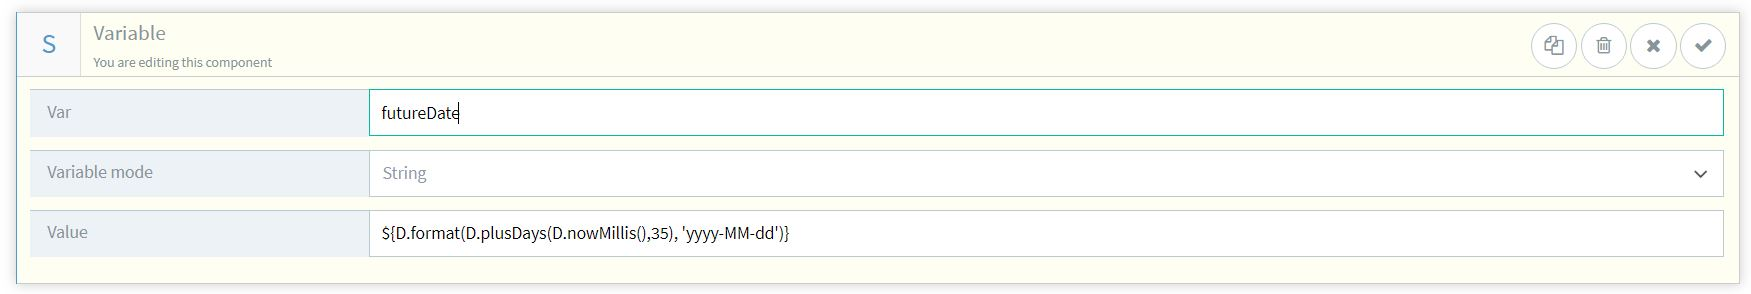
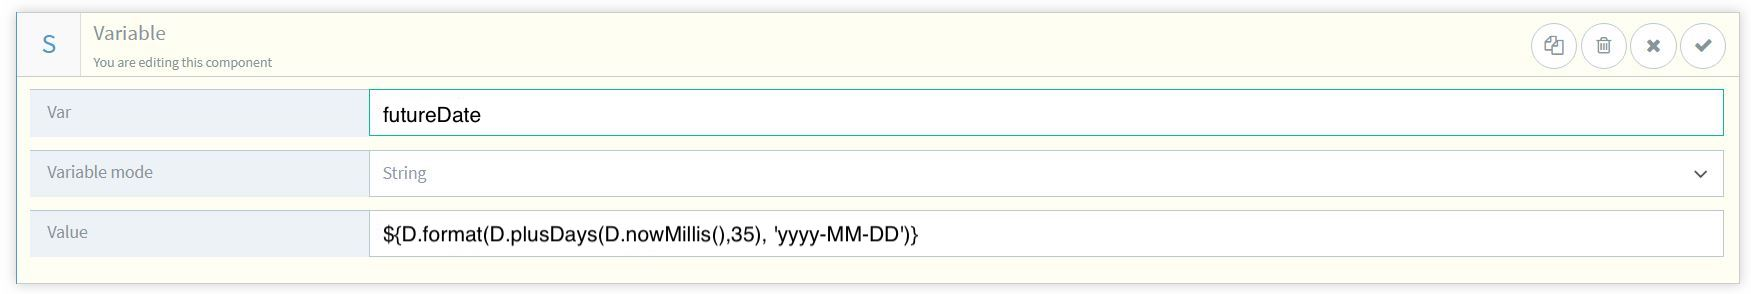
TCD-2081 API on-prem changes

Changed region(s): [[0.2159, 0.7653, 0.5243, 0.8571], [0.2159, 0.3673, 0.2776, 0.4286]]

diff --git a/docs/api-testing/on-prem/how-to/set-dynamic-dates.md b/docs/api-testing/on-prem/how-to/set-dynamic-dates.md
@@ -10,48 +10,43 @@ keywords:
 
 import useBaseUrl from '@docusaurus/useBaseUrl';
 
-Have you ever needed to pass a future date as part of the request inside of a test? Perhaps as a check-in or check-out date? You could enter it as static value, but that means you would have to periodically update the date as time went on. 
+Have you ever needed to pass a future date as part of the request inside of a test? Perhaps as a check-in or check-out date? You could enter it as static value, but that means you would have to periodically update the date as time went on.
 
 Creating a dynamic date in API Fortress is a simple solution for this sort of situation.
 
 Here's the procedure:
 
-1. First, open the Composer and add a **Set (variable)** 
-   
+1. First, open the Composer and add a **Set (variable)**:<br/>
    <img src={useBaseUrl('img/api-fortress/2018/04/setVar.jpg')} alt="setVar.jpg"/>
+2. In the Variable component editor, enter the following:
+    * **Var** field: enter your variable name.
+    * **Variable mode** field: leave it as `_String`.
+    * **Value** field: enter the following string: `${D.format(D.plusDays(D.nowMillis(),35), 'yyyy-MM-DD')}`.
+    <img src={useBaseUrl('img/api-fortress/2018/04/valueField.jpg')} alt="valueField.jpg"/>
 
-2. Then, enter the variable name and leave the mode as _String 
-   
-   <img src={useBaseUrl('img/api-fortress/2018/04/varComp.jpg')} alt="varComp.jpg"/>
 
-3. Lastly, enter the following string in the **Value** field:
-   
-   ```js 
-   ${D.format(D.plusDays(D.nowMillis(),35), 'yyyy-MM-dd')}
-   ```
-      
-   <img src={useBaseUrl('img/api-fortress/2018/04/valueField.jpg')} alt="valueField.jpg"/>
+Let's analyze the string mentioned above:
+```js
+${D.format(D.plusDays(D.nowMillis(),35), 'yyyy-MM-DD')}
+```
+* `D.nowMillis()`: returns the current Unix epoch in milliseconds
+* `D.plusDays()`: returns the provided milliseconds, plus the provided number of days (in our example, we have added 35 days to today's date)
+* `D.format()`: creates a timestamp with the given format, using the current timezone (in our example `yyyy-MM-DD`)
 
-   Let's analyse what this string means:
+As result, you will have something like `2018-05-15`.
 
-   * `D.nowMillis()`: returns the current Unix epoch in milliseconds 
-   * `D.plusDays()`: returns the provided milliseconds, plus the provided number of days (in our example, we have added 35 days to today's date)
-   * `D.format()`: creates a timestamp with the given format, using the current timezone (in our example `yyyy-MM-dd`)
-   
-   As result, you will have something like `2018-05-15`
-
-You can obtain a past date, starting from today's date with the following string: 
+You can obtain a past date, starting from today's date with the following string:
 
 ```js
-${D.format(D.minusDays(D.nowMillis(),35), 'yyyy-MM-dd')}
+${D.format(D.minusDays(D.nowMillis(),35), 'yyyy-MM-DD')}
 ```
 
-You can also create a date based on a specified timezone: 
+You can also create a date based on a specified time zone:
 
 ```js
-${D.format(D.plusDays(D.nowMillis(),35), 'yyyy-MM-dd','America/New_York')} 
+${D.format(D.plusDays(D.nowMillis(),35), 'yyyy-MM-DD','America/New_York')}
 ```
 
 The above string create the same date as our first example using New York (EST) as the timezone.
 
-For more details about you can check our [reference page](https://apifortress.com/doc/expression-language-extensions/)
+For more details, see our [reference page](https://apifortress.com/doc/expression-language-extensions).
